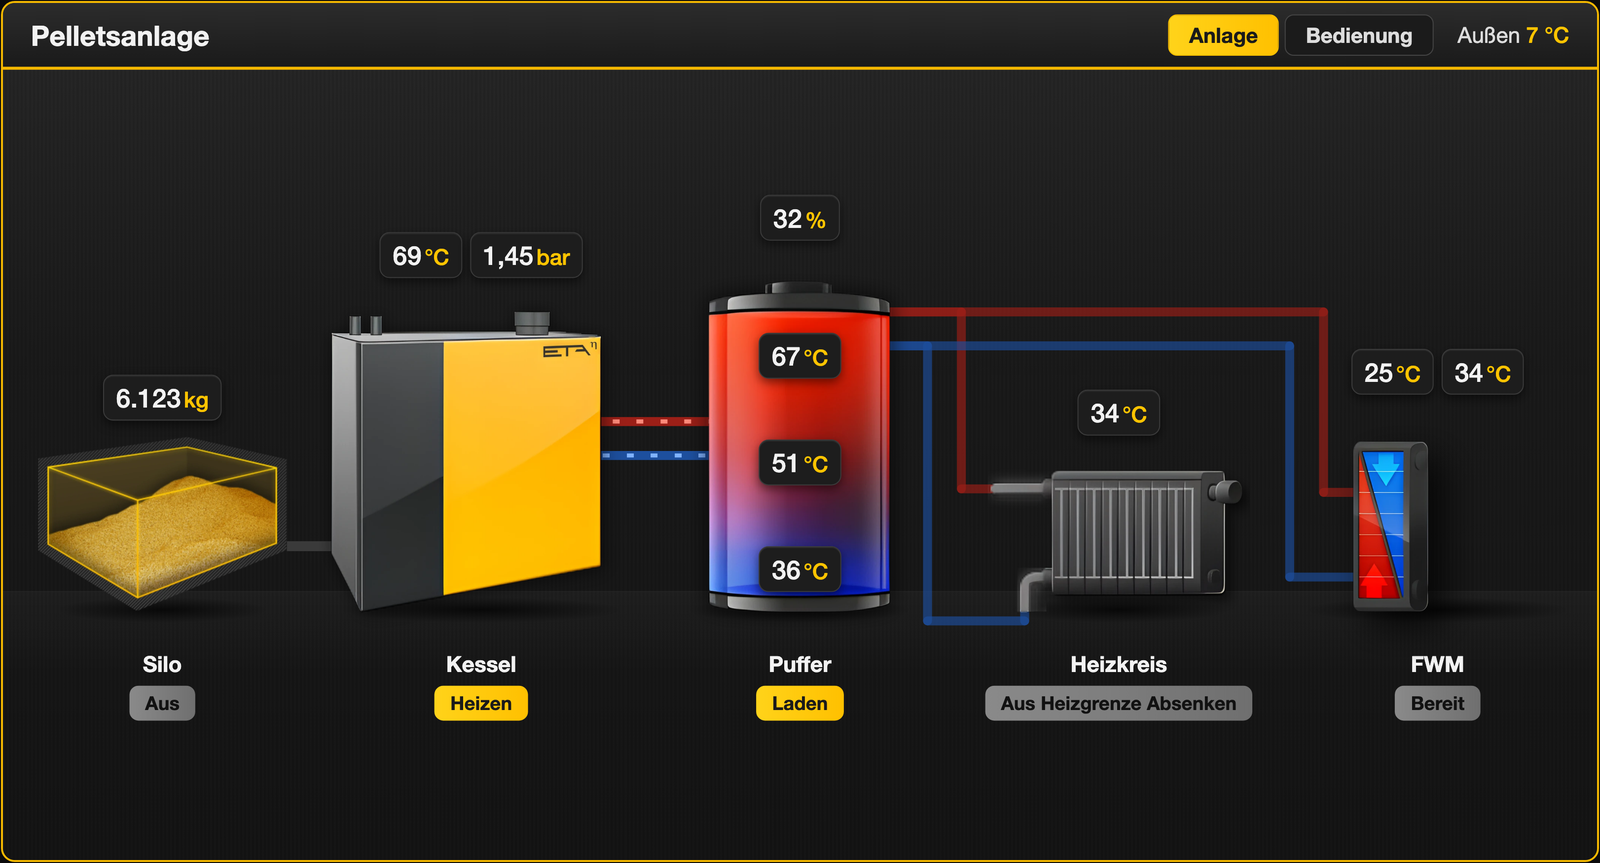
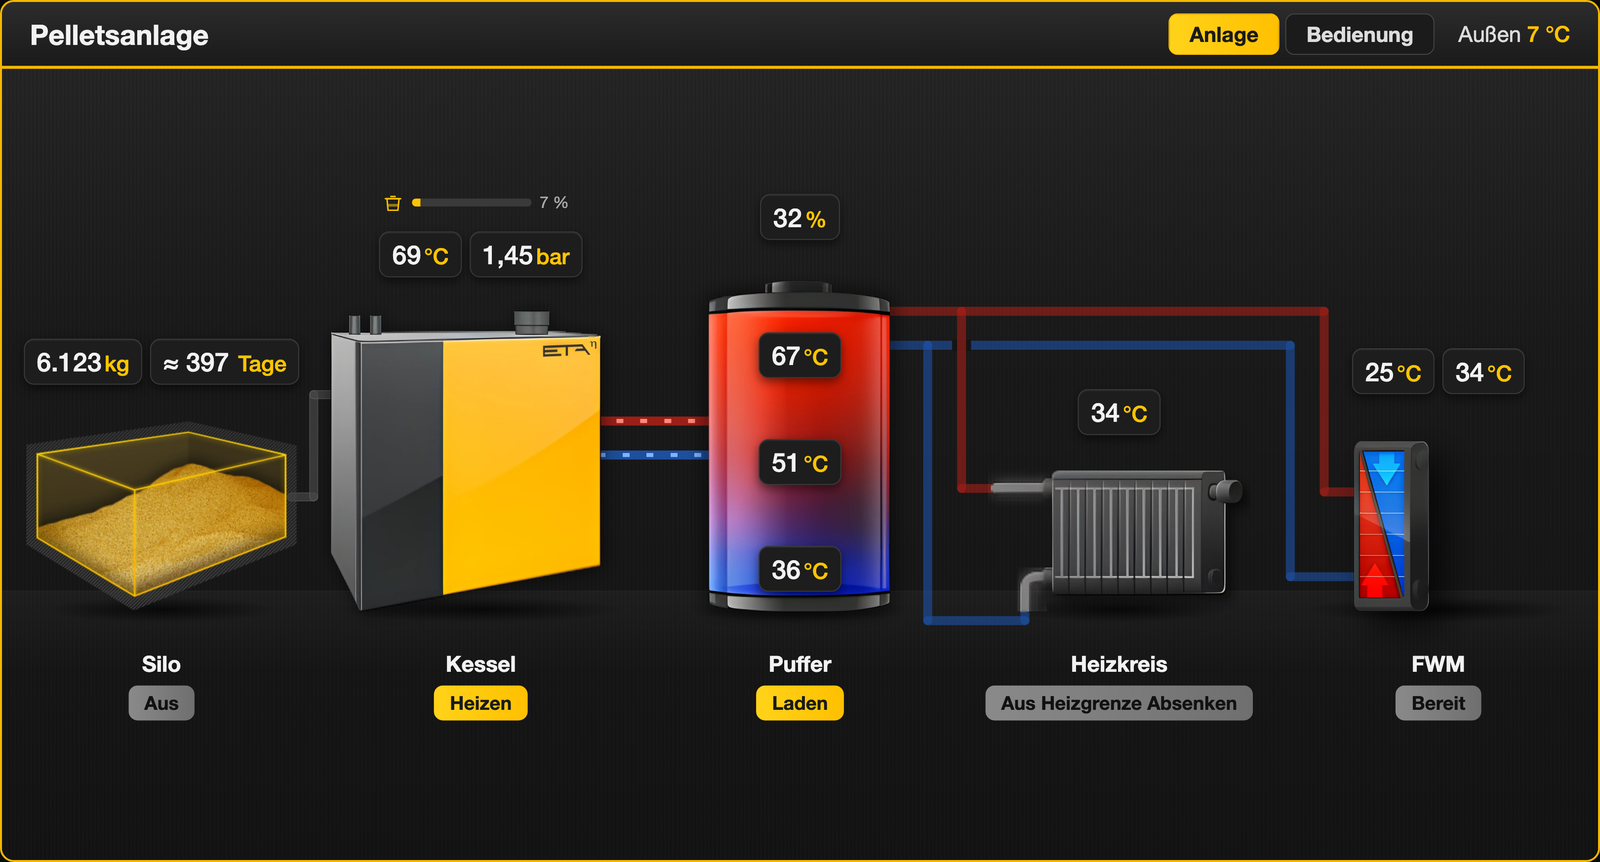
Fix manifest order, new screenshots

diff --git a/README.md b/README.md
@@ -27,8 +27,8 @@ Your ETA plant on a dashboard, like on the touch display: detected automatically
 | Wood chip boiler | Control tab |
 | --- | --- |
 | ![Plant card: wood chip boiler with buffer and external demand](images/plant-card-chips.png) | ![Plant card: control tab with boiler, heating circuits and heating times](images/plant-card-control.png) |
-| **Heating times** | |
-| ![Plant card: editing the heating times of a heating circuit](images/plant-card-times.png) | |
+| **Heating times** | **Card settings** |
+| ![Plant card: editing the heating times of a heating circuit](images/plant-card-times.png) | ![Plant card settings: name, language, icons and manually assigned values](images/plant-card-settings.png) |
 
 ## Contents
 
@@ -45,6 +45,7 @@ Your ETA plant on a dashboard, like on the touch display: detected automatically
 - **Error monitoring**: a binary sensor for active errors, the active-error count, the latest error message, plus [error events](#error-events) for automations.
 - **Services** to write values directly to the unit ([details](#custom-services)).
 - **Stable entity identities**: entity ids stay stable across firmware updates, terminal language changes and IP changes.
+- **Analytics**: ash box fill level, pellet consumption per day and forecasts for ash box and pellet store ([details](#analytics)).
 - **Energy Dashboard** ready ([details](#integrating-the-eta-unit-into-the-energy-dashboard)).
 
 ## Plant Card
